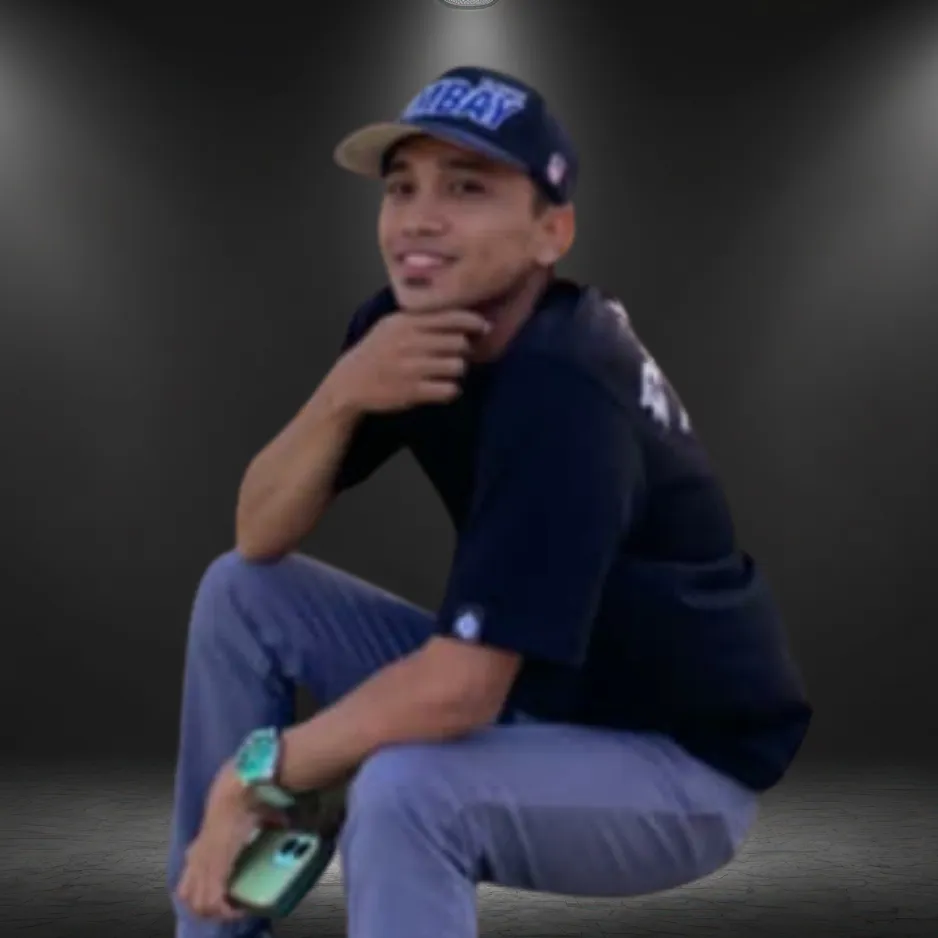
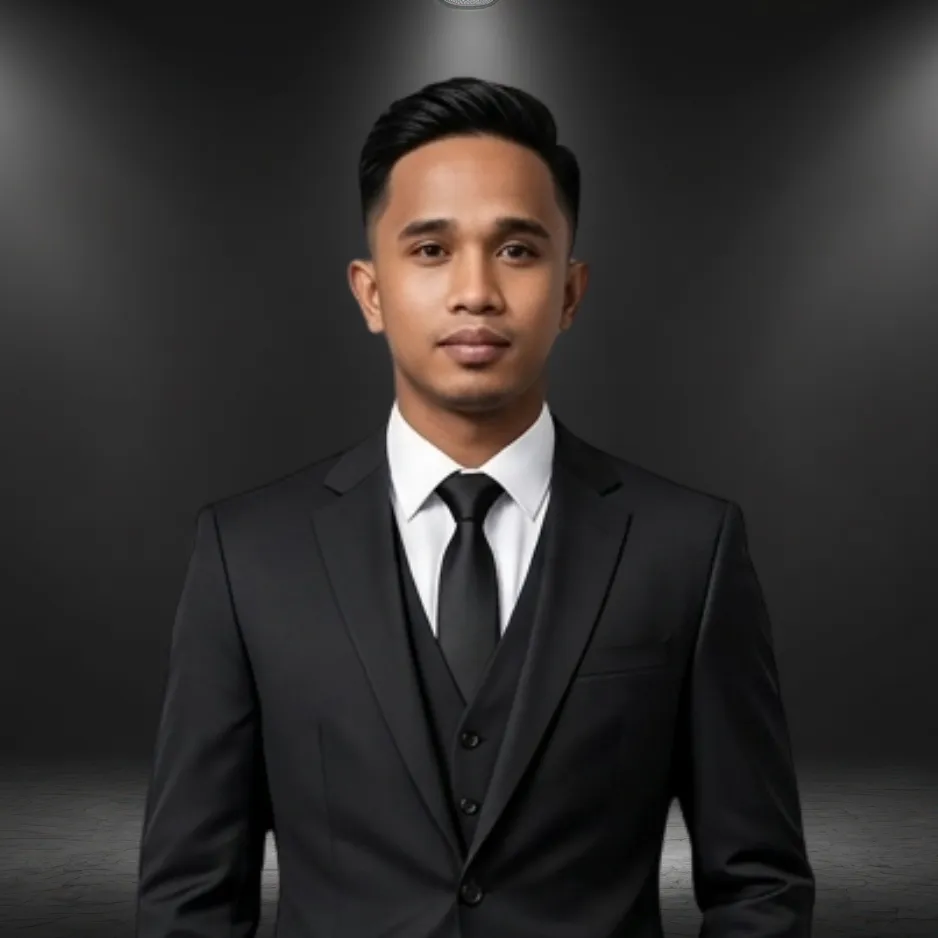
updating gm photo

diff --git a/nuptials.html b/nuptials.html
@@ -198,7 +198,7 @@
                             <span class="role-badge">Groomsman-Cord</span>
                         </div>
                         <div class="person-card">
-                            <img src="images/image14.webp" alt="Groomsman">
+                            <img src="pictures/nel.webp" alt="Groomsman">
                             <h4>Mr. Ronel Christian Oliva</h4>
                             <span class="role-badge">Groomsman</span>
                         </div>
@@ -213,13 +213,13 @@
                             <span class="role-badge">Groomsman</span>
                         </div>
                         <div class="person-card">
-                            <img src="images/image18.webp" alt="Groomsman">
+                            <img src="pictures/labri.webp" alt="Groomsman">
                             <h4>Mr. John Michael Labriaga</h4>
                             <span class="role-badge">Groomsman</span>
                         </div>
                         <div class="person-card">
-                            <img src="images/image19.webp" alt="Groomsman">
-                            <h4>Mr. John Raymundo Luengo</h4>
+                            <img src="pictures/mon.webp" alt="Groomsman">
+                            <h4>Mr. John Raymund Luengo</h4>
                             <span class="role-badge">Groomsman</span>
                         </div>
                         <div class="person-card">